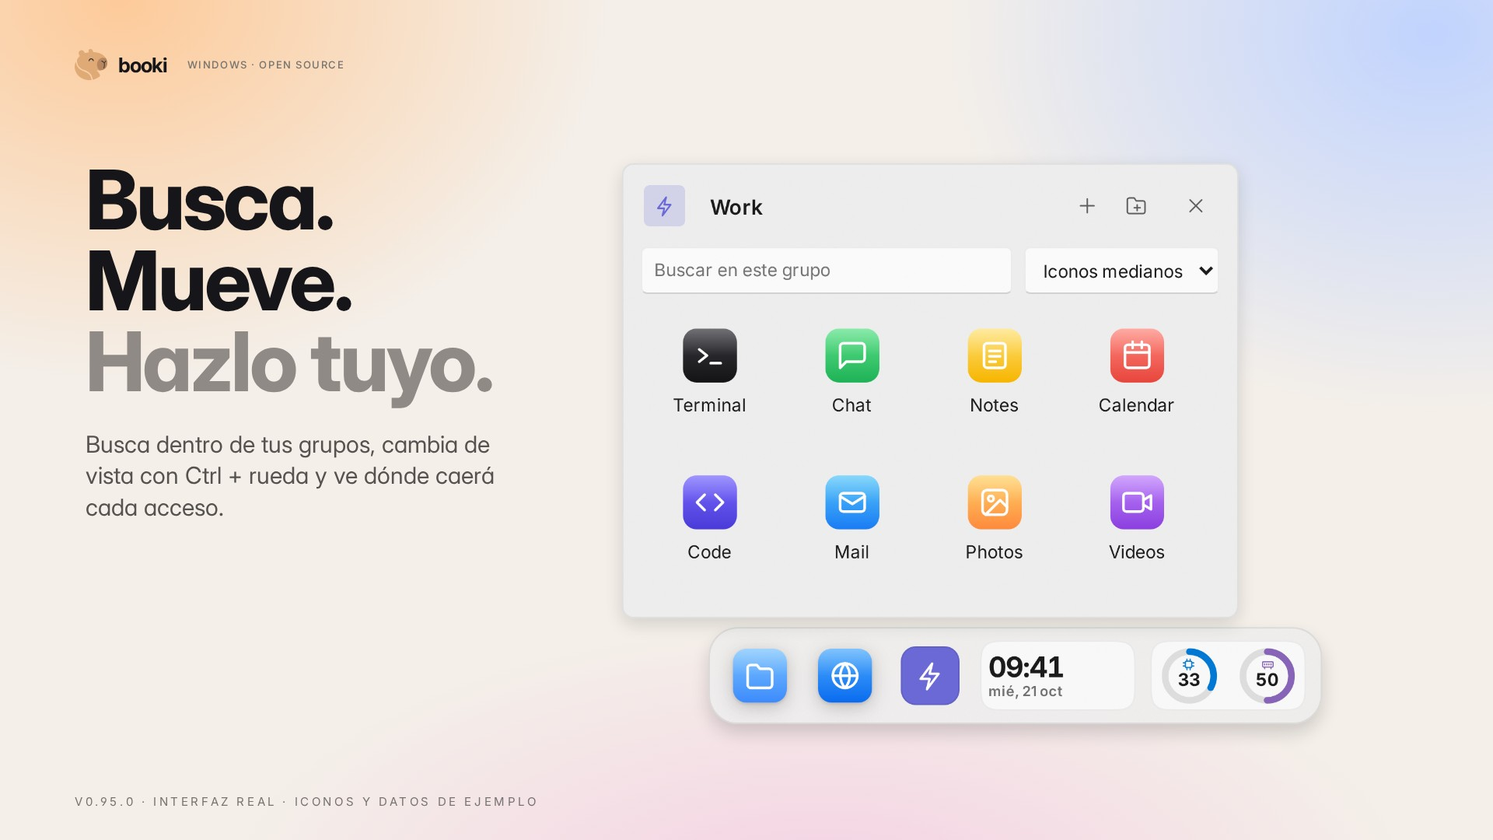
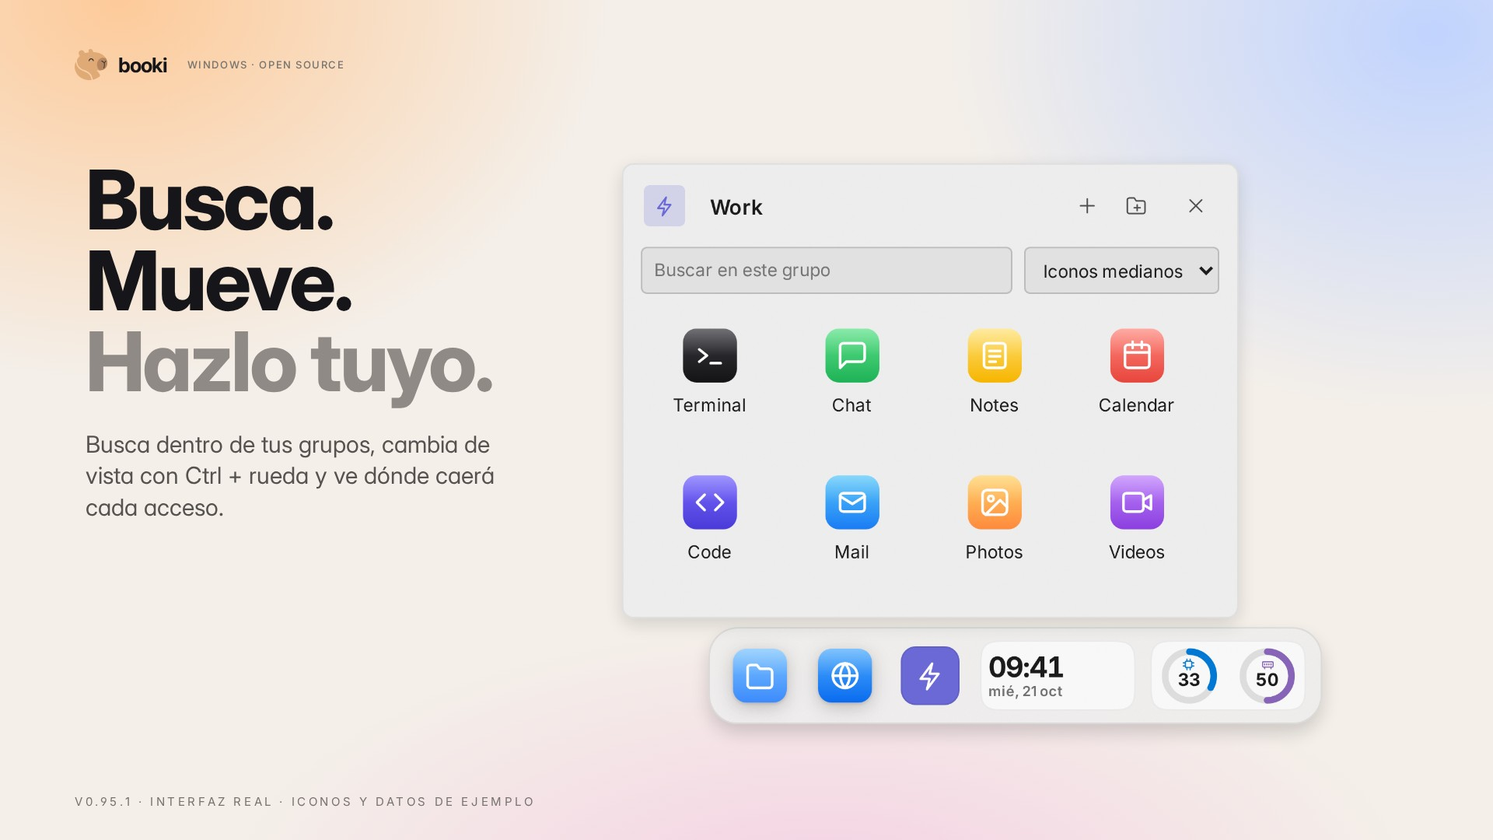
Prepare Booki 0.95.1 release and current documentation

Changed region(s): [[0.4062, 0.275, 0.8125, 0.3667], [0.0938, 0.9472, 0.3438, 0.9778]]

diff --git a/src/refinement-strings.js b/src/refinement-strings.js
@@ -69,5 +69,14 @@ const rows = {
   "refine.openGroup": ["Abrir grupo", "Open group", "Abrir grupo", "Ouvrir le groupe", "Gruppe öffnen"],
   "refine.monitorMove": ["Mover a otra pantalla", "Move to another screen", "Mover para outra tela", "Déplacer vers un autre écran", "Auf anderen Bildschirm verschieben"],
   "refine.queueFull": ["La cola admite hasta 50 descargas. Limpia las terminadas para añadir más.", "The queue holds up to 50 downloads. Clear finished items to add more.", "A fila admite até 50 downloads. Limpe os concluídos para adicionar mais.", "La file accepte 50 téléchargements. Effacez les éléments terminés pour en ajouter.", "Die Warteschlange fasst 50 Downloads. Abgeschlossene entfernen, um weitere hinzuzufügen."],
+  "release951.headline": ["Ajustes más claros, modo clic coherente y correcciones de guardado, capturas y avisos.", "Clearer settings, consistent click activation and fixes for saving, captures and notices.", "Ajustes mais claros, ativação por clique consistente e correções de gravação, capturas e avisos.", "Des réglages plus clairs, une activation au clic cohérente et des corrections de sauvegarde, capture et notifications.", "Übersichtlichere Einstellungen, verlässliche Klickaktivierung und Korrekturen beim Speichern, bei Aufnahmen und Hinweisen."],
+  "release951.settings": ["Los estilos predefinidos son opcionales y están plegados. Los conflictos conservan tus cambios y permiten guardar otros ajustes; los avisos ya no se superponen. Cambiar rápido de idioma conserva la última selección.", "Optional style presets start collapsed. Conflicts preserve your edits while allowing other settings to save; status messages no longer overlap. Quick language changes keep the latest selection.", "Estilos predefinidos opcionais começam recolhidos. Conflitos preservam suas edições e permitem salvar outros ajustes; os avisos não se sobrepõem. Trocas rápidas de idioma mantêm a última seleção.", "Les styles facultatifs sont repliés. Les conflits préservent vos modifications et permettent de sauvegarder les autres réglages ; les messages ne se chevauchent plus. Un changement rapide de langue conserve le dernier choix.", "Optionale Stilvorlagen sind zunächst eingeklappt. Konflikte bewahren eigene Änderungen und erlauben das Speichern anderer Einstellungen; Meldungen überlappen nicht mehr. Bei schnellem Sprachwechsel gilt die letzte Auswahl."],
+  "release951.widgets": ["Ajustes abre la instancia exacta del widget, también en grupos o si tienes varias copias. Un fallo al guardar la aceptación de términos muestra un error antes de instalar un complemento.", "Settings opens the exact widget instance, including grouped and duplicate widgets. A failed terms acceptance save shows an error before installing a plugin.", "Os ajustes abrem a instância exata do widget, inclusive em grupos ou com cópias. Uma falha ao salvar a aceitação dos termos mostra um erro antes de instalar o complemento.", "Les réglages ouvrent le bon exemplaire du widget, y compris dans un groupe ou en présence de doublons. Un échec de sauvegarde des conditions affiche une erreur avant toute installation.", "Die Einstellungen öffnen das passende Widget, auch in Gruppen oder bei mehreren Exemplaren. Schlägt das Speichern der Zustimmung zu den Bedingungen fehl, erscheint vor der Erweiterungsinstallation ein Fehler."],
+  "release951.contrast": ["Menús de grupo, listas y controles usan colores legibles según el tinte real del panel, incluso con vidrio claro y tema oscuro. Un fallo al guardar la densidad no descarta una selección posterior.", "Group menus, lists and controls use readable colors based on the actual panel tint, including light glass in a dark theme. A failed density save preserves a newer selection.", "Menus de grupo, listas e controles usam cores legíveis conforme o tom real do painel, inclusive vidro claro em tema escuro. Uma falha ao salvar a densidade preserva uma escolha posterior.", "Les menus de groupe, listes et commandes restent lisibles selon la teinte réelle du panneau, même avec du verre clair et un thème sombre. Un échec de sauvegarde de densité préserve un choix plus récent.", "Gruppenmenüs, Listen und Bedienelemente erhalten lesbare Farben passend zur tatsächlichen Paneltönung, auch bei hellem Glas im dunklen Design. Ein Fehler beim Speichern der Dichte verwirft keine neuere Auswahl."],
+  "release951.capture": ["Con Booki visible en capturas, se añade retención temporal de paneles, ampliación y etiquetas mientras Recortes tiene el foco. Las respuestas antiguas no cierran paneles recién retenidos. No se lee el contenido capturado.", "When Booki is included in captures, a temporary hold preserves panels, magnification and hints while Snipping Tool owns focus. Stale replies cannot close newly held panels. Captured content is not read.", "Com Booki visível em capturas, uma retenção temporária preserva painéis, ampliação e dicas enquanto a Ferramenta de Captura tem foco. Respostas antigas não fecham painéis recém-retidos. O conteúdo capturado não é lido.", "Lorsque Booki est inclus dans les captures, les panneaux, le zoom et les infobulles sont maintenus pendant que l’Outil Capture a le focus. Une réponse ancienne ne ferme pas un panneau ainsi retenu. Le contenu capturé n’est pas lu.", "Wenn Booki in Aufnahmen sichtbar ist, bleiben Panels, Vergrößerung und Hinweise vorübergehend erhalten, während das Snipping Tool den Fokus hat. Alte Antworten schließen keine neu gehaltenen Panels. Aufgenommene Inhalte werden nicht gelesen."],
+  "release951.notch": ["El modo clic espera al clic y descarta señales tardías de hover o del borde. Los controles multimedia siguen accesibles con teclado.", "Click mode waits for a click and rejects delayed hover or edge signals. Playback controls remain accessible by keyboard.", "O modo clique espera um clique e ignora sinais atrasados de passagem do cursor ou borda. Os controles de reprodução continuam acessíveis pelo teclado.", "Le mode clic attend un clic et ignore les signaux tardifs de survol ou de bord. Les commandes multimédias restent accessibles au clavier.", "Der Klickmodus wartet auf einen Klick und ignoriert verspätete Hover- oder Randsignale. Die Wiedergabesteuerung bleibt per Tastatur erreichbar."],
+  "release951.notices": ["Los avisos respetan el estado actual de No molestar y se reanudan aunque no tengas el widget Enfoque. Las acciones evitan ejecuciones duplicadas mientras están pendientes y permiten reintentar si fallan.", "Notices respect the current Do not disturb state and resume even without a Focus widget. Actions prevent duplicate execution while pending and remain retryable after failure.", "Os avisos respeitam o estado atual de Não incomodar e voltam mesmo sem o widget Foco. As ações evitam execução duplicada enquanto pendentes e podem ser repetidas após falhar.", "Les notifications respectent l’état actuel de Ne pas déranger et reprennent même sans widget Concentration. Les actions évitent les doublons tant qu’elles sont en cours et restent réessayables après un échec.", "Hinweise beachten den aktuellen Nicht-stören-Status und werden auch ohne Fokus-Widget nachgeholt. Aktionen verhindern doppelte Ausführung während der Bearbeitung und lassen sich nach Fehlern erneut versuchen."],
+  "release951.durability": ["Las notas siguen guardando el texto nuevo tras fallar una escritura anterior. Un fallo al notificar a otras ventanas no marca como perdido un guardado confirmado. Las descargas terminadas retiran Cancelando y conservan el archivo ante errores tardíos de cancelación.", "Notes keep saving newer text after an earlier write fails. A failed cross-window notification does not mark a confirmed save as lost. Finished downloads clear Cancelling and retain the file after late cancellation errors.", "As notas continuam salvando o texto novo após uma gravação anterior falhar. Uma falha ao avisar outras janelas não invalida um salvamento confirmado. Downloads concluídos retiram Cancelando e preservam o arquivo diante de erros tardios de cancelamento.", "Les notes continuent de sauvegarder le nouveau texte après un échec précédent. Un échec de notification des autres fenêtres n’invalide pas une sauvegarde confirmée. Les téléchargements terminés quittent Annulation et conservent le fichier malgré une erreur tardive d’annulation.", "Notizen speichern neueren Text weiter, wenn ein früherer Schreibvorgang fehlschlägt. Ein Fehler beim Benachrichtigen anderer Fenster macht eine bestätigte Speicherung nicht ungültig. Fertige Downloads beenden den Abbruchstatus und behalten die Datei bei verspäteten Abbruchfehlern."],
+
 };
 export const REFINEMENT_STRINGS = Object.fromEntries(["es", "en", "pt", "fr", "de"].map((lang, i) => [lang, Object.fromEntries(Object.entries(rows).map(([key, values]) => [key, values[i]]))]));

diff --git a/src/release-notes.js b/src/release-notes.js
@@ -32,7 +32,7 @@ function stabilityRelease() {
   ] };
 }
 
-export function previousReleases() { return [release94(), release93(), release92(), release91(), release90(), release89(), release881(), release88(), release871(), release87(), release86(), release85(), release84(), release83(), release82(), release81(), overhaul80Release(), workspaceRelease(), libraryRelease(), surfaceRelease(), stabilityRelease(), overhaulRelease()]; }
+export function previousReleases() { return [release95(), release94(), release93(), release92(), release91(), release90(), release89(), release881(), release88(), release871(), release87(), release86(), release85(), release84(), release83(), release82(), release81(), overhaul80Release(), workspaceRelease(), libraryRelease(), surfaceRelease(), stabilityRelease(), overhaulRelease()]; }
 function surfaceRelease() {
   return { version: "0.70.2", date: "2026-10-05", headline: t("surfaces.headline"), sections: [
     { icon: "sparkles", title: t("surfaces.design"), notes: [t("surfaces.unified"), t("surfaces.opacity"), t("surfaces.motion")] },
@@ -181,11 +181,19 @@ function release94() {
   ] };
 }
 
-export function currentRelease() {
+function release95() {
   return { version: "0.95.0", date: "2026-10-21", headline: t("release95.headline"), sections: [
     { icon: "folder", title: t("release95.groupsTitle"), notes: [t("release95.groups"), t("release95.drag"), t("release95.menus")] },
     { icon: "sparkles", title: t("release95.lookTitle"), notes: [t("release95.look"), t("release95.notch")] },
     { icon: "grid", title: t("release95.widgetsTitle"), notes: [t("release95.widgets")] },
     { icon: "download", title: t("release95.collectorTitle"), notes: [t("release95.collector"), t("release95.updates")] },
+  ] };
+}
+
+export function currentRelease() {
+  return { version: "0.95.1", date: "2026-10-23", headline: t("release951.headline"), sections: [
+    { icon: "settings", title: t("release80.settingsTitle"), notes: [t("release951.settings"), t("release951.widgets")] },
+    { icon: "sparkles", title: t("release95.lookTitle"), notes: [t("release951.contrast"), t("release951.capture"), t("release951.notch")] },
+    { icon: "download", title: t("release95.collectorTitle"), notes: [t("release951.notices"), t("release951.durability")] },
   ] };
 }

diff --git a/README.es.md b/README.es.md
@@ -10,10 +10,10 @@
 
 <!-- booki:download:start -->
 <p align="center">
-  <a href="https://github.com/punkable/booki/releases/download/v0.95.0/Booki_0.95.0_x64-setup.exe"><b>Descargar para Windows v0.95.0 (x64)</b></a> ·
-  <a href="https://github.com/punkable/booki/releases/download/v0.95.0/Booki_0.95.0_arm64-setup.exe">ARM64</a> ·
-  <a href="https://github.com/punkable/booki/releases/download/v0.95.0/Booki_0.95.0_x64_en-US.msi">MSI x64</a> ·
-  <a href="docs/releases/v0.95.0.md">Novedades v0.95.0</a> ·
+  <a href="https://github.com/punkable/booki/releases/download/v0.95.1/Booki_0.95.1_x64-setup.exe"><b>Descargar para Windows v0.95.1 (x64)</b></a> ·
+  <a href="https://github.com/punkable/booki/releases/download/v0.95.1/Booki_0.95.1_arm64-setup.exe">ARM64</a> ·
+  <a href="https://github.com/punkable/booki/releases/download/v0.95.1/Booki_0.95.1_x64_en-US.msi">MSI x64</a> ·
+  <a href="docs/releases/v0.95.1.md">Novedades v0.95.1</a> ·
   <a href="README.md">English</a>
 </p>
 <!-- booki:download:end -->
@@ -75,7 +75,7 @@
 <p align="center">Sin cuentas. Sin telemetría. Sin sincronización en la nube. Tus tareas, notas y uso se quedan en tu PC.<br/>El clima solo pide la ciudad que eliges, nunca tu ubicación.</p>
 
 <!-- booki:media:start -->
-<p align="center"><sub>Capturas del frontend del código fuente v0.95.0, con datos de ejemplo. El desenfoque nativo de Windows requiere comprobación en la app.</sub></p>
+<p align="center"><sub>Capturas del frontend del código fuente v0.95.1, con datos de ejemplo. El desenfoque nativo de Windows requiere comprobación en la app.</sub></p>
 <!-- booki:media:end -->
 
 ## Instalar y empezar
@@ -87,20 +87,19 @@
 Requiere Windows 10 u 11. El instalador aún no tiene firma Authenticode, así que SmartScreen puede mostrar un aviso. Las actualizaciones se verifican y conservan tu configuración.
 
 <!-- booki:news:start -->
-## Novedades de 0.95.0
+## Novedades de 0.95.1
 
-Un Booki más fluido: grupos claros, notch discreto y Recolector completo.
+Ajustes más claros, modo clic coherente y correcciones de guardado, capturas y avisos.
 
-- Busca dentro del grupo y cambia entre lista e iconos pequeños, medianos o grandes con Ctrl + rueda. Al reorganizar se conservan búsqueda, vista y desplazamiento.
-- Al arrastrar desde un grupo ves el icono o inicial, el nombre, el destino y dónde se insertará. Escape cancela. Arrastra el fondo del dock para cambiar de borde o pantalla.
-- Menús contextuales más cortos: Personalizar reúne nombre, icono y color en un panel con paletas desplegables y Aplicar/Cancelar. Apariencia, organización, ventanas, recientes y perfiles se abren por separado.
-- Los estilos predefinidos son opcionales y empiezan plegados: Windows, Compacto y Con aumento explican qué aplican. Desplazamiento suave y animaciones contenidas; los estilos conservan la forma y activación del notch.
-- Los agentes ocupan solo logo y estado. Rotan según la actividad, con prioridad para espera y error. La música aparece brevemente y sus controles siguen disponibles al acercarte mientras un agente trabaja.
-- Un panel reúne tus widgets en vivo. El menú y el lanzador ofrecen controles de audio y acciones rápidas. Al abrir un dispositivo puedes ver fuente y hora de consulta; el consumo de IA sin cuota publicada aparece como aproximado.
-- Vídeo, audio, archivos y galerías visibles desde el inicio. Añade varios enlaces a una cola de sesión, cancela o reintenta, elige calidad y carpeta, y abre, muestra o copia el archivo al terminar, también desde el aviso del notch.
-- Las actualizaciones de Booki se anuncian discretamente junto al dock. Descargar e instalar siguen separados, con guardado y respaldo antes de aplicar.
+- Los estilos predefinidos son opcionales y están plegados. Los conflictos conservan tus cambios y permiten guardar otros ajustes; los avisos ya no se superponen. Cambiar rápido de idioma conserva la última selección.
+- Ajustes abre la instancia exacta del widget, también en grupos o si tienes varias copias. Un fallo al guardar la aceptación de términos muestra un error antes de instalar un complemento.
+- Menús de grupo, listas y controles usan colores legibles según el tinte real del panel, incluso con vidrio claro y tema oscuro. Un fallo al guardar la densidad no descarta una selección posterior.
+- Con Booki visible en capturas, se añade retención temporal de paneles, ampliación y etiquetas mientras Recortes tiene el foco. Las respuestas antiguas no cierran paneles recién retenidos. No se lee el contenido capturado.
+- El modo clic espera al clic y descarta señales tardías de hover o del borde. Los controles multimedia siguen accesibles con teclado.
+- Los avisos respetan el estado actual de No molestar y se reanudan aunque no tengas el widget Enfoque. Las acciones evitan ejecuciones duplicadas mientras están pendientes y permiten reintentar si fallan.
+- Las notas siguen guardando el texto nuevo tras fallar una escritura anterior. Un fallo al notificar a otras ventanas no marca como perdido un guardado confirmado. Las descargas terminadas retiran Cancelando y conservan el archivo ante errores tardíos de cancelación.
 
-[Notas completas](docs/releases/v0.95.0.md)
+[Notas completas](docs/releases/v0.95.1.md)
 <!-- booki:news:end -->
 
 <!-- booki:history:start -->
@@ -108,9 +107,9 @@ Un Booki más fluido: grupos claros, notch discreto y Recolector completo.
 
 | Versión | Qué cambió |
 |---|---|
+| [0.95.0](docs/releases/v0.95.0.md) | Un Booki más fluido: grupos claros, notch discreto y Recolector completo. |
 | [0.94.0](docs/releases/v0.94.0.md) | Grupos más ágiles, widgets más claros y un README renovado. |
 | [0.93.0](docs/releases/v0.93.0.md) | Agentes más claros, descargas que conservan tus archivos y actualizaciones al día. |
-| [0.92.0](docs/releases/v0.92.0.md) | Claude y Codex en el notch, concentración con No molestar y copia automática. |
 
 [Todas las versiones publicadas](https://github.com/punkable/booki/releases)
 <!-- booki:history:end -->

diff --git a/README.md b/README.md
@@ -10,10 +10,10 @@
 
 <!-- booki:download:start -->
 <p align="center">
-  <a href="https://github.com/punkable/booki/releases/download/v0.95.0/Booki_0.95.0_x64-setup.exe"><b>Download for Windows v0.95.0 (x64)</b></a> ·
-  <a href="https://github.com/punkable/booki/releases/download/v0.95.0/Booki_0.95.0_arm64-setup.exe">ARM64</a> ·
-  <a href="https://github.com/punkable/booki/releases/download/v0.95.0/Booki_0.95.0_x64_en-US.msi">MSI x64</a> ·
-  <a href="docs/releases/v0.95.0.md">What's new v0.95.0</a> ·
+  <a href="https://github.com/punkable/booki/releases/download/v0.95.1/Booki_0.95.1_x64-setup.exe"><b>Download for Windows v0.95.1 (x64)</b></a> ·
+  <a href="https://github.com/punkable/booki/releases/download/v0.95.1/Booki_0.95.1_arm64-setup.exe">ARM64</a> ·
+  <a href="https://github.com/punkable/booki/releases/download/v0.95.1/Booki_0.95.1_x64_en-US.msi">MSI x64</a> ·
+  <a href="docs/releases/v0.95.1.md">What's new v0.95.1</a> ·
   <a href="README.es.md">Español</a>
 </p>
 <!-- booki:download:end -->
@@ -75,24 +75,23 @@
 <p align="center">No accounts. No telemetry. No cloud sync. Your tasks, notes and usage stay on your PC.<br/>Weather asks only for the city you choose — never your location.</p>
 
 <!-- booki:media:start -->
-<p align="center"><sub>Source frontend captures for v0.95.0, with example data. Native Windows blur requires an in-app check.</sub></p>
+<p align="center"><sub>Source frontend captures for v0.95.1, with example data. Native Windows blur requires an in-app check.</sub></p>
 <!-- booki:media:end -->
 
 <!-- booki:news:start -->
-## What's new in 0.95.0
+## What's new in 0.95.1
 
-A smoother Booki: clearer groups, a quieter notch and a fuller Collector.
+Clearer settings, consistent click activation and fixes for saving, captures and notices.
 
-- Search inside groups and switch between list, small, medium or large icons with Ctrl + wheel. Reorganizing retains search, view and scroll.
-- Dragging from a group shows its icon or initial, name, destination and insertion marker. Escape cancels. Drag the dock background to change edge or screen.
-- Shorter context menus: Customize brings name, icon and color into a staged panel with expandable pickers and Apply/Cancel. Appearance, organization, windows, recents and profiles open separately.
-- Optional style presets are folded away and explain what Windows, Compact and Magnified apply. Smooth scrolling and restrained motion refine daily use; presets preserve the notch shape and activation.
-- Agents show just logo and status, rotating with activity while waiting and errors take priority. Music appears briefly; hover still offers playback controls while an agent works.
-- One panel brings your live widgets together. The menu and launcher expose audio controls and quick actions. Device details show source and query time; AI usage without a published allowance is marked approximate.
-- Video, audio, files and galleries are explicit. Add multiple links to a session queue, cancel or retry, choose quality and folder, then open, reveal or copy the saved file, including from the notch notice.
-- Booki updates are announced discreetly beside the dock. Download and installation remain separate, with settings saved and backed up before applying.
+- Optional style presets start collapsed. Conflicts preserve your edits while allowing other settings to save; status messages no longer overlap. Quick language changes keep the latest selection.
+- Settings opens the exact widget instance, including grouped and duplicate widgets. A failed terms acceptance save shows an error before installing a plugin.
+- Group menus, lists and controls use readable colors based on the actual panel tint, including light glass in a dark theme. A failed density save preserves a newer selection.
+- When Booki is included in captures, a temporary hold preserves panels, magnification and hints while Snipping Tool owns focus. Stale replies cannot close newly held panels. Captured content is not read.
+- Click mode waits for a click and rejects delayed hover or edge signals. Playback controls remain accessible by keyboard.
+- Notices respect the current Do not disturb state and resume even without a Focus widget. Actions prevent duplicate execution while pending and remain retryable after failure.
+- Notes keep saving newer text after an earlier write fails. A failed cross-window notification does not mark a confirmed save as lost. Finished downloads clear Cancelling and retain the file after late cancellation errors.
 
-[Full release notes](docs/releases/v0.95.0.md)
+[Full release notes](docs/releases/v0.95.1.md)
 <!-- booki:news:end -->
 
 ## Get started
@@ -108,9 +107,9 @@ Booki needs Windows 10 or 11. The installer isn't Authenticode-signed yet, so Sm
 
 | Version | What changed |
 |---|---|
+| [0.95.0](docs/releases/v0.95.0.md) | A smoother Booki: clearer groups, a quieter notch and a fuller Collector. |
 | [0.94.0](docs/releases/v0.94.0.md) | More flexible groups, clearer widgets and a refreshed README. |
 | [0.93.0](docs/releases/v0.93.0.md) | Clearer agents, downloads that preserve your files and up-to-date releases. |
-| [0.92.0](docs/releases/v0.92.0.md) | Claude and Codex in the notch, focus with Do not disturb, and automatic backup. |
 
 [All published releases](https://github.com/punkable/booki/releases)
 <!-- booki:history:end -->

diff --git a/docs/releases/v0.95.1.md b/docs/releases/v0.95.1.md
@@ -1,0 +1,31 @@
+# Booki 0.95.1
+
+A combined correction of the settings, capture, notch and widget regressions reported after 0.95.0, with additional fixes for notes, downloads and deferred notices.
+
+## Settings and groups
+
+- Optional style presets start collapsed, explain their effects and preserve notch activation and shape.
+- Save status no longer overlaps conflict controls. Conflicts preserve affected drafts while unrelated settings save, retire when resolved remotely, and rebase edits made during a pending save.
+- Widget settings open the exact instance, including grouped and duplicate widgets and an already-open Settings window.
+- Panel ink, native select options, focus rings and error colors follow the actual surface tint, including light glass with a dark theme and Windows high contrast.
+- A failed group-density save cannot discard a newer selection. A delayed translation load cannot override a newer language choice.
+
+## Captures and notch activation
+
+- Click activation waits for a click; delayed hover and hot-edge signals cannot reveal it. Keyboard access to playback controls remains available.
+- When capture inclusion is enabled, a temporary hold preserves open panels, magnification and tooltips while Windows Snipping Tool has focus. Stale capture replies cannot dismiss newly held panels, and normal hiding resumes after capture.
+- Capture detection checks only the foreground executable identity. It does not inspect captured images or account content. Existing recording inclusion policy is preserved.
+
+## Reliable saves and quiet notices
+
+- Failed optional previews and cross-window broadcasts do not label confirmed saves as unsaved or offer stale-snapshot retries.
+- Explicit fresh-configuration recovery clears old conflict, close-error and callback state.
+- Notes drain newer text after an older failed write, including when the newer autosave already joined the pending operation.
+- Notices consult current Windows Do not disturb before delivery, recheck quiet mode when deferred delivery begins, and resume without a Focus widget. Temporary query failures retain the last known quiet state. Background retries run only while notices remain held.
+- Notch actions prevent duplicate in-flight execution and remain retryable after failure.
+- A download finishing before its cancellation command clears Cancelling and retains the saved file despite a late cancellation error. Rejected completion notifications do not block the queue.
+- Plugin installation waits for terms acceptance to save, with an inline error and retry on failure.
+
+Both READMEs, current release notes, download links and source captures are synchronized for this release. Captures use offline example icons and data.
+
+Automated browser coverage uses a simulated Windows bridge. Physical Snipping Tool behavior, Windows Do not disturb, native glass, peripheral charging, mixed-DPI monitors and an installed upgrade from 0.95.0 remain unverified. Builds, packaging and updater signatures do not establish those runtime checks. See `docs/quality/settings-capture-regressions.md` for the manual cases.
